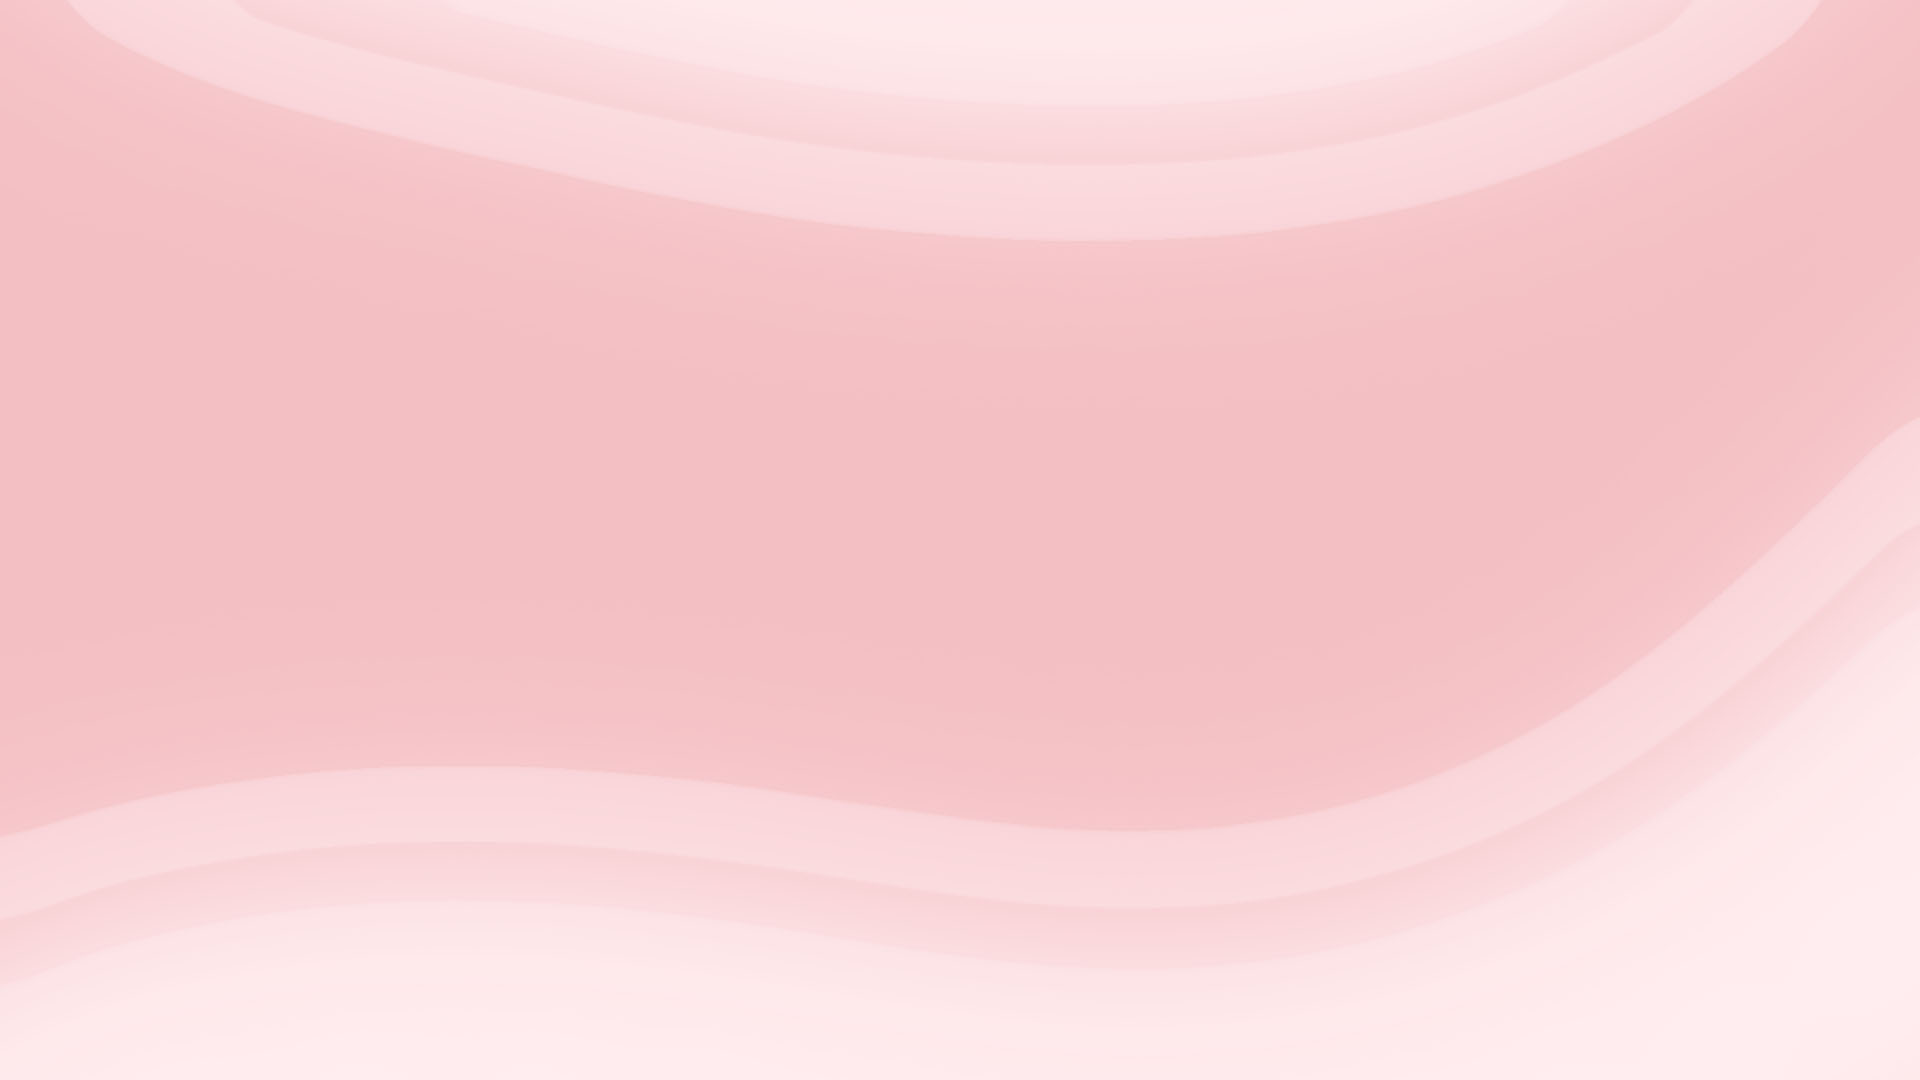
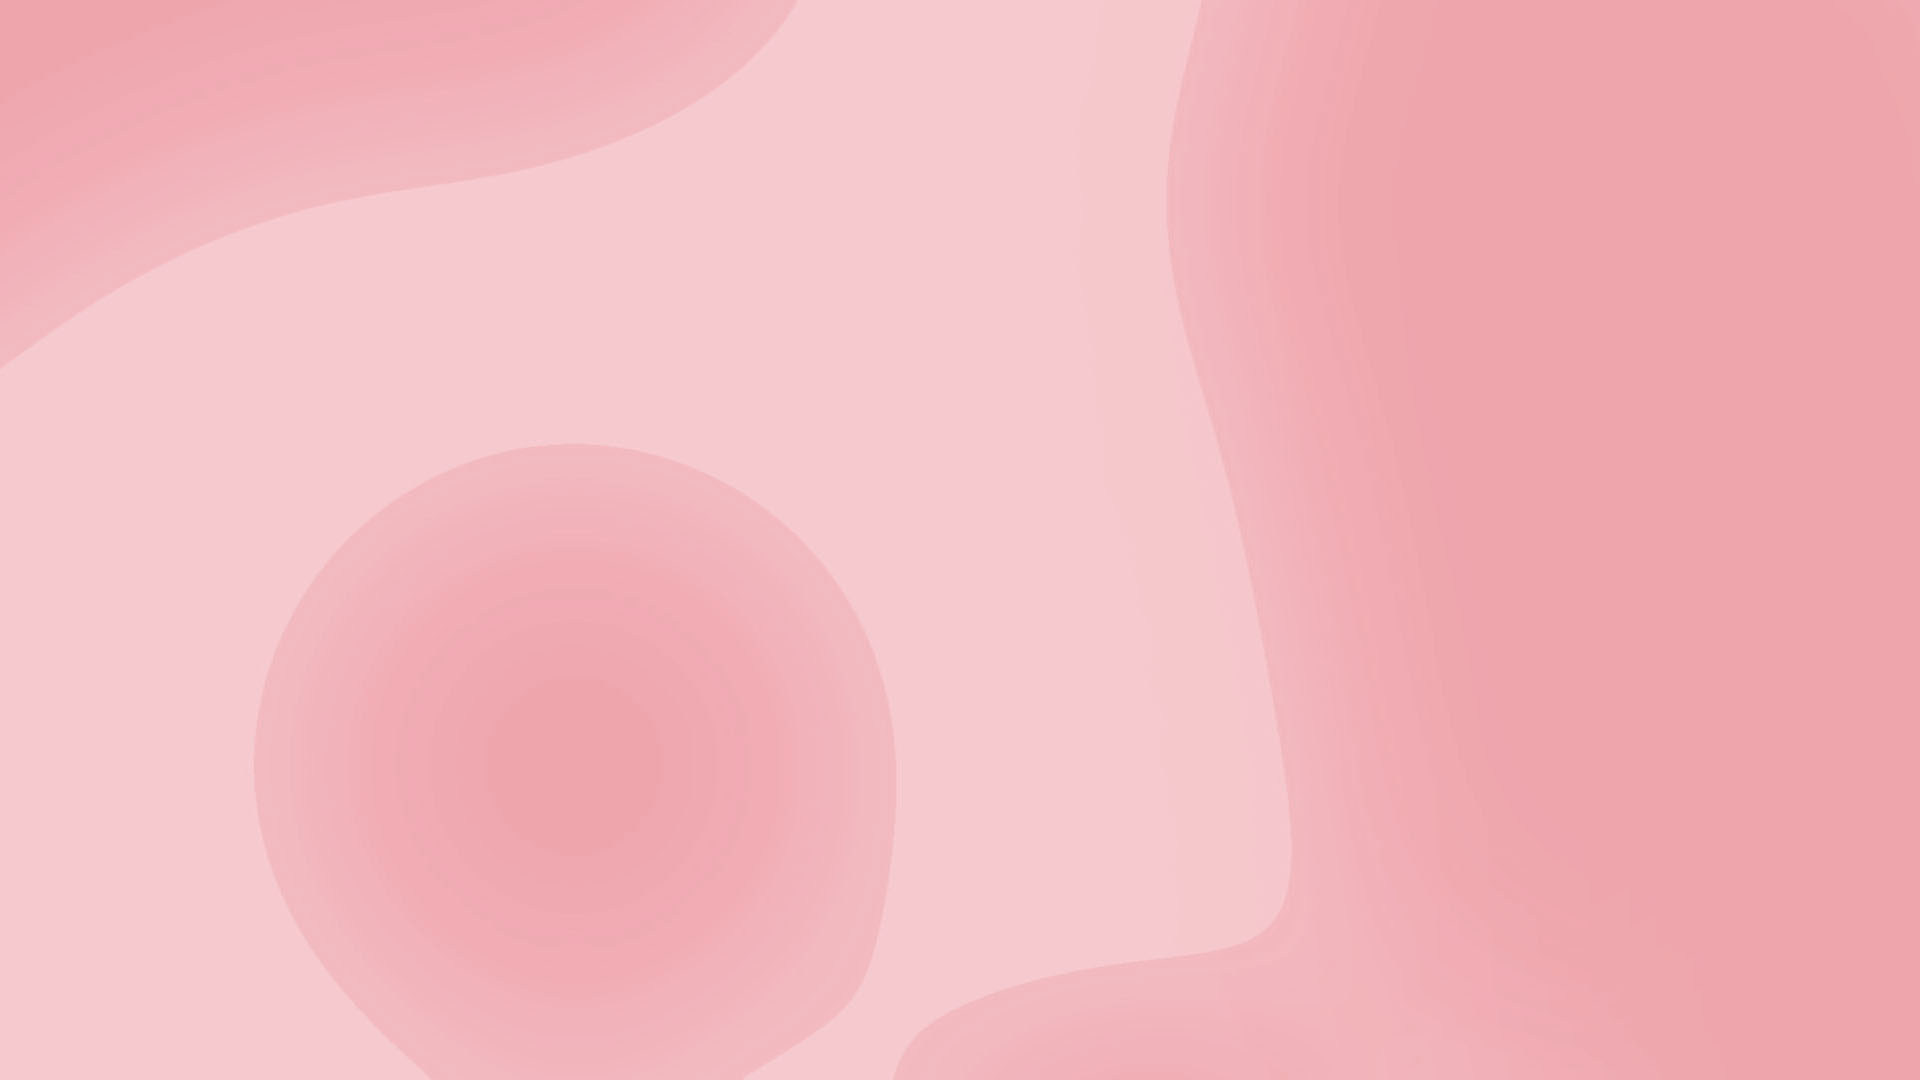
win back my trust rough background

diff --git a/colors.css b/colors.css
@@ -2,22 +2,29 @@
   --isthereanappforthat-color: #44C293;
   --isthereanappforthat-background-color: #97edcd;
   --isthereanappforthat-text-color: white;
+  --isthereanappforthat-conversation-color: black;
   --takemebythehand-color: #62CEE2;
   --takemebythehand-background-color: #a9eff7;
   --takemebythehand-text-color: black;
+  --takemebythehand-conversation-color: black;
   --sharingiscaring-color: #47E97D;
   --sharingiscaring-background-color: #97ffbb;
   --sharingiscaring-text-color: white;
+  --sharingiscaring-conversation-color: black;
   --onmyterms-color: #766DE3;
   --onmyterms-background-color: #c1bcf2;
   --onmyterms-text-color: white;
+  --onmyterms-conversation-color: black;
   --seethewholeme-color: #CB27B0;
   --seethewholeme-background-color: #f089ca;
   --seethewholeme-text-color: white;
+  --seethewholeme-conversation-color: #074985;
   --givemefairaccess-color: #EAE617;
   --givemefairaccess-background-color: #ffff9b;
   --givemefairaccess-text-color: black;
+  --givemefairaccess-conversation-color: black;
   --winbackmytrust-color: #D80015;
   --winbackmytrust-background-color: #fad8db;
   --winbackmytrust-text-color: white;
+  --winbackmytrust-conversation-color: #6a030c;
 }

diff --git a/conversations.css b/conversations.css
@@ -29,11 +29,11 @@ body {
 }
 
 #backgroundcontainer img:nth-child(3) {
-  transform: translate3d(0, 0, 3px);
+  transform: translate3d(-1%, -1%, 3px) scale(0.97);
 }
 
 #backgroundcontainer img:nth-child(4) {
-  transform: translate3d(0, 0, 4px);
+  transform: translate3d(-1.3%, -1.3%, 4px) scale(0.96);
 }
 
 
@@ -60,7 +60,7 @@ body {
   display: inline-block;
   box-sizing: border-box;
   width: 100%;
-  color: black;
+  color: var(--conversation-color);
   transition: all 2s ease;
   white-space: pre-wrap;
 }
@@ -86,11 +86,13 @@ body {
 #messages li.received.fade {
   opacity: 0.8;
   transform: scale(0.9) translate(6%);
+  filter: blur(1px);
 }
 
 #messages li.sent.fade {
   opacity: 0.8;
   transform: scale(0.9) translate(-6%);
+  filter: blur(1px);
 }
 
 #messages li.choice {
@@ -139,7 +141,7 @@ article > nav > * {
 }
 
 article > header p {
-  color: black;
+  color: var(--conversation-color);
   font-family: "Averta-Bold";
   font-size: 14px;
   text-transform: uppercase;
@@ -148,7 +150,7 @@ article > header p {
 }
 
 article > header h1 {
-  color: black;
+  color: var(--conversation-color);
   margin-bottom: 0;
 }
 

diff --git a/conversations.js b/conversations.js
@@ -113,13 +113,13 @@ showMessage(0)
 
 let perspectiveOriginX = 0;
 let perspectiveOriginY = 0;
-let pageX = window.innerWidth/2;
-let pageY = window.innerHeight/2;
+let clientX = window.innerWidth/2;
+let clientY = window.innerHeight/2;
 
 let map = document.getElementById("backgroundcontainer");
 function updatePerspective(){
-  perspectiveOriginX = (19*perspectiveOriginX + window.innerWidth/2 - pageX)/20;
-  perspectiveOriginY = (19*perspectiveOriginY + window.innerHeight/2 - pageY)/20;
+  perspectiveOriginX = (19*perspectiveOriginX + window.innerWidth/2 - clientX)/20;
+  perspectiveOriginY = (19*perspectiveOriginY + window.innerHeight/2 - clientY)/20;
   map.style.perspectiveOrigin = `${perspectiveOriginX}px ${perspectiveOriginY}px`;
   window.requestAnimationFrame(updatePerspective);
 }
@@ -127,7 +127,7 @@ window.requestAnimationFrame(updatePerspective);
 
 
 function updateP(event){
-  pageX = event.pageX;
-  pageY = event.pageY;
+  clientX = event.clientX;
+  clientY = event.clientY;
 }
 addEventListener('mousemove', updateP, false);

diff --git a/winbackmytrust/index.html b/winbackmytrust/index.html
@@ -21,6 +21,9 @@
   <body class="inprogress">
     <div id="backgroundcontainer">
       <img src="../images/backgroundwinbackmytrust.jpg">
+      <img src="../images/backgroundwinbackmytrustlayer1.png">
+      <img src="../images/backgroundwinbackmytrustlayer2.png">
+      <img src="../images/backgroundwinbackmytrustlayer3.png">
     </div>
     <section id="conversation">
       <ol id="messages"></ol>

diff --git a/isthereanappforthat/styles.css b/isthereanappforthat/styles.css
@@ -2,5 +2,5 @@
   --button-color: var(--isthereanappforthat-color);
   --background-color: var(--isthereanappforthat-background-color);
   --text-color: var(--isthereanappforthat-text-color);
-  --conversation-color: var(--isthereanappforthat-text-color);
+  --conversation-color: var(--isthereanappforthat-conversation-color);
 }

diff --git a/sharingiscaring/styles.css b/sharingiscaring/styles.css
@@ -2,7 +2,7 @@
   --button-color: var(--sharingiscaring-color);
   --background-color: var(--sharingiscaring-background-color);
   --text-color: var(--sharingiscaring-text-color);
-  --conversation-color: var(--sharingiscaring-text-color);
+  --conversation-color: var(--sharingiscaring-conversation-color);
 }
 
 body {

diff --git a/takemebythehand/styles.css b/takemebythehand/styles.css
@@ -2,7 +2,7 @@
   --button-color: var(--takemebythehand-color);
   --background-color: var(--takemebythehand-background-color);
   --text-color: var(--takemebythehand-text-color);
-  --conversation-color: var(--takemebythehand-text-color);
+  --conversation-color: var(--takemebythehand-conversation-color);
 }
 
 body {

diff --git a/givemefairaccess/styles.css b/givemefairaccess/styles.css
@@ -2,5 +2,5 @@
   --button-color: var(--givemefairaccess-color);
   --background-color: var(--givemefairaccess-background-color);
   --text-color: var(--givemefairaccess-text-color);
-  --conversation-color: var(--givemefairaccess-text-color);
+  --conversation-color: var(--givemefairaccess-conversation-color);
 }

diff --git a/winbackmytrust/styles.css b/winbackmytrust/styles.css
@@ -2,7 +2,7 @@
   --button-color: var(--winbackmytrust-color);
   --background-color: var(--winbackmytrust-background-color);
   --text-color: var(--winbackmytrust-text-color);
-  --conversation-color: var(--winbackmytrust-text-color);
+  --conversation-color: var(--winbackmytrust-conversation-color);
 }
 
 body {

diff --git a/seethewholeme/styles.css b/seethewholeme/styles.css
@@ -2,5 +2,5 @@
   --button-color: var(--seethewholeme-color);
   --background-color: var(--seethewholeme-background-color);
   --text-color: var(--seethewholeme-text-color);
-  --conversation-color: var(--seethewholeme-text-color);
+  --conversation-color: var(--seethewholeme-conversation-color);
 }

diff --git a/onmyterms/styles.css b/onmyterms/styles.css
@@ -2,5 +2,5 @@
   --button-color: var(--onmyterms-color);
   --background-color: var(--onmyterms-background-color);
   --text-color: var(--onmyterms-text-color);
-  --conversation-color: black;
+  --conversation-color: var(--onmyterms-conversation-color);
 }
